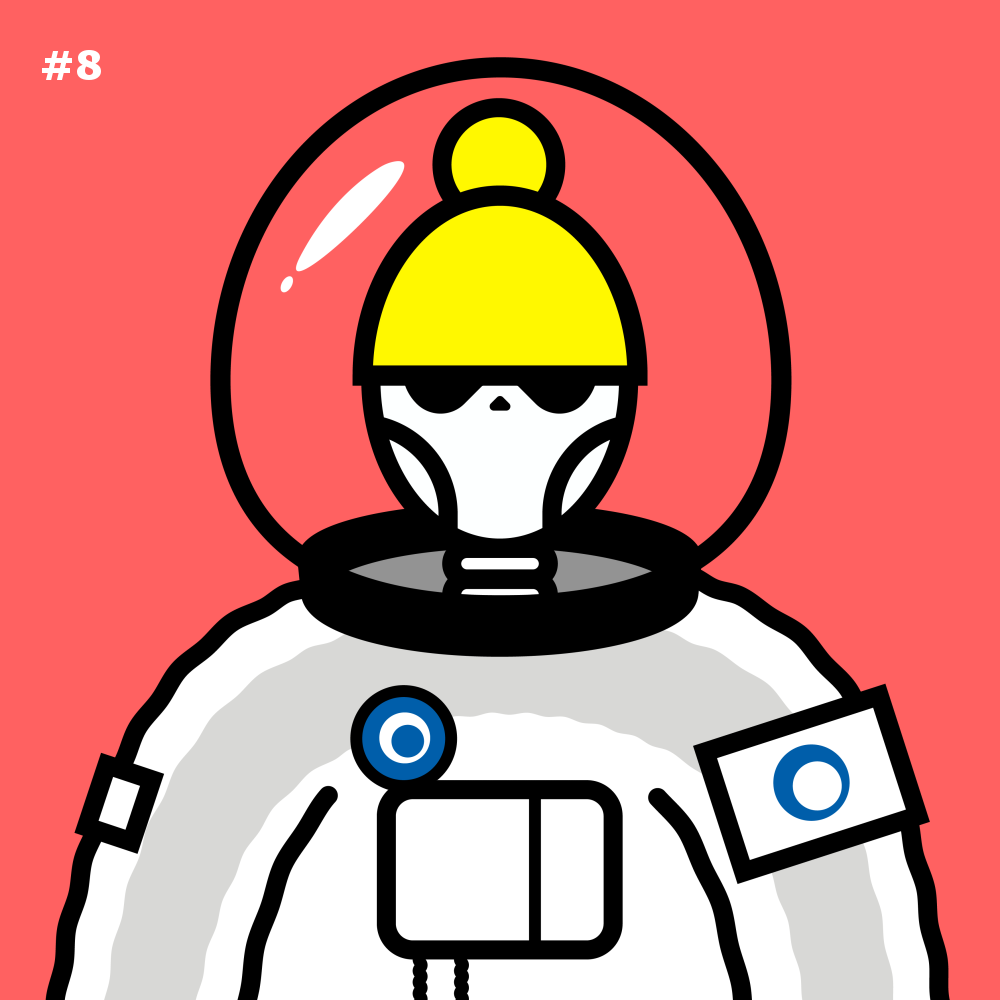
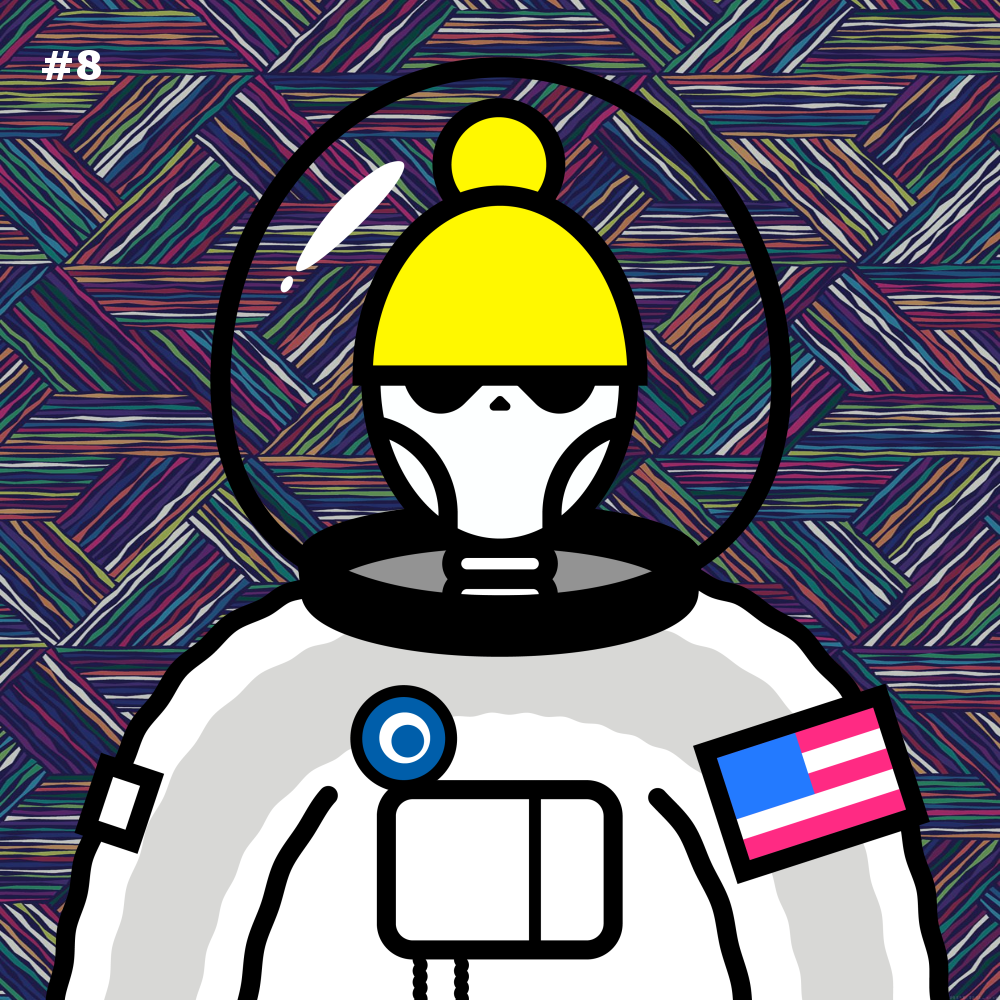
Created new NFT using new backgrounds

diff --git a/input/config.js b/input/config.js
@@ -34,6 +34,18 @@ const races = {
             path: `${dir}/1-background/Orange.png`,
             weight: 80,
           },
+          {
+            id: 3,
+            name: "Pattern-1",
+            path: `${dir}/1-background/Pattern-1.jpg`,
+            weight: 80,
+          },
+          {
+            id: 3,
+            name: "Pattern-2",
+            path: `${dir}/1-background/Pattern-2.jpg`,
+            weight: 80,
+          },
         ],
         position: { x: 0, y: 0 },
         size: { width: width, height: height },
